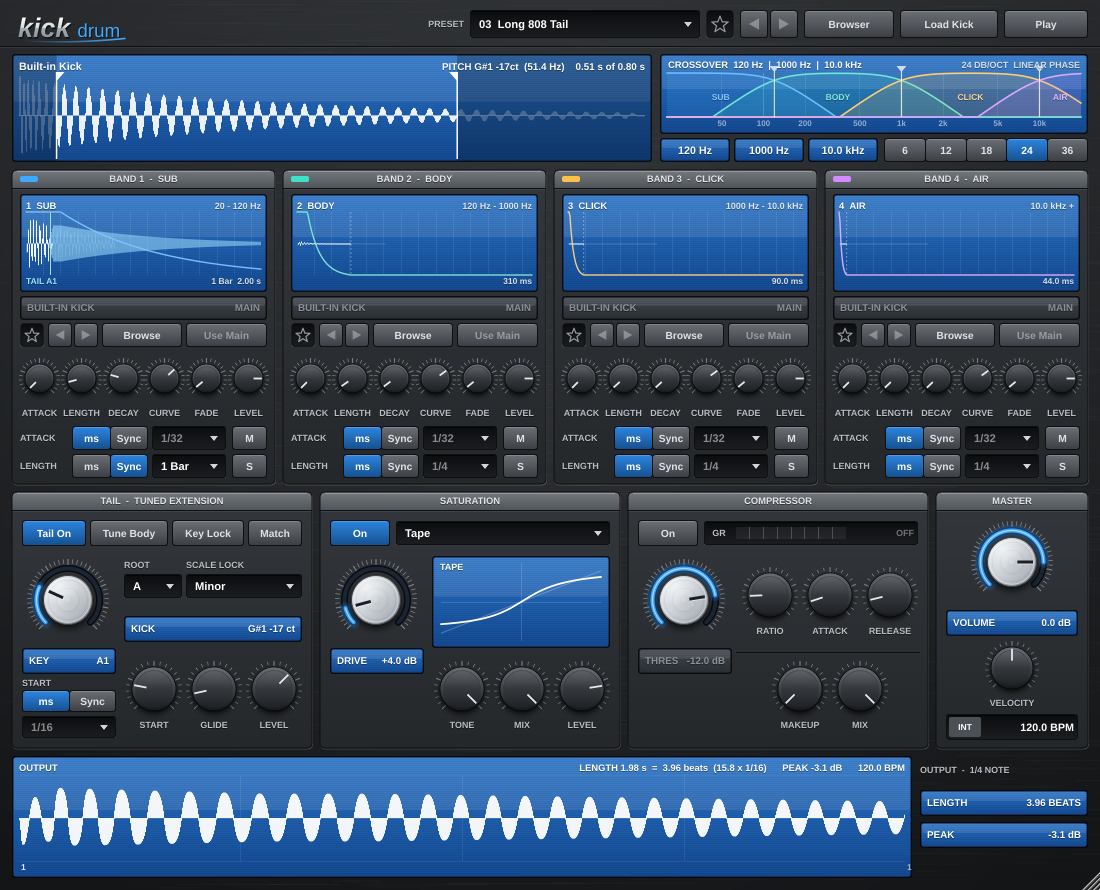
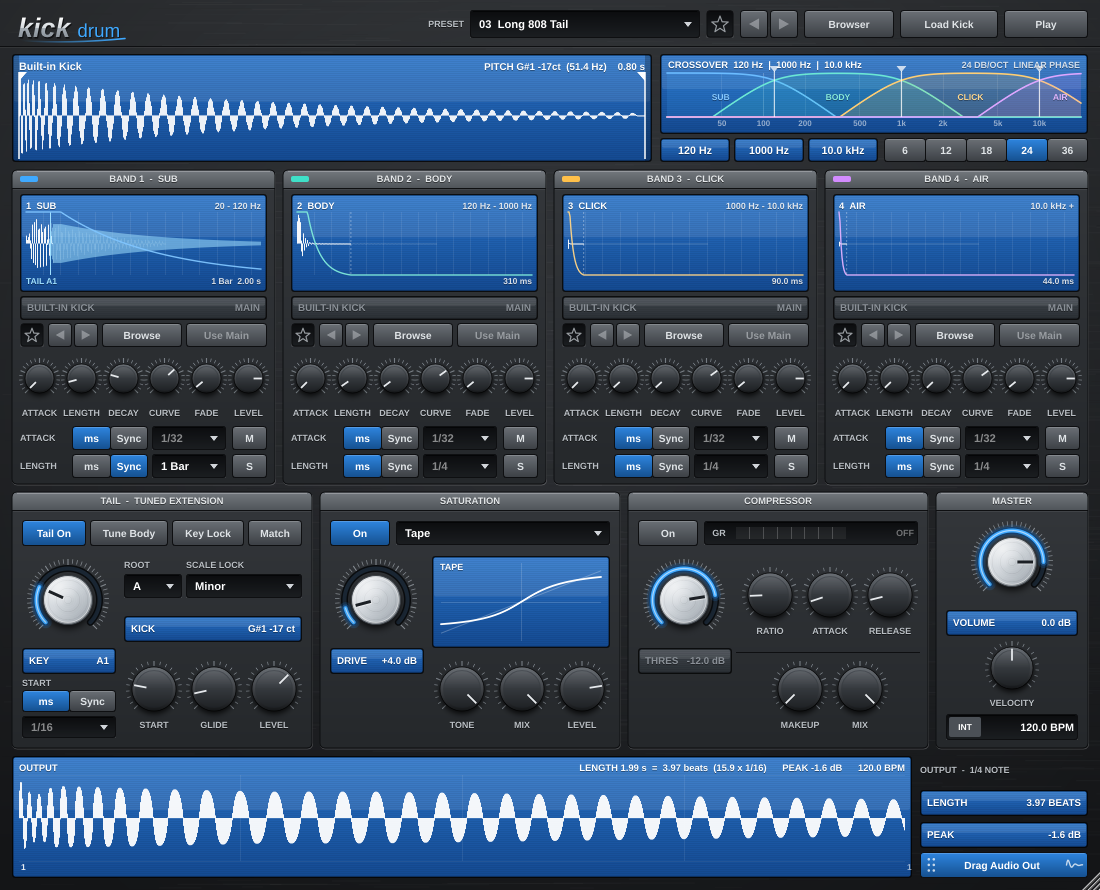
Drag Audio Out: drag the rendered kick onto a DAW track as a WAV
- Button under Length / Peak; dragging renders the current sound and
  starts an OS file drag (as ArpSampler's Drag MIDI)
- 24-bit stereo WAV at the session rate, from the hit to its -60 dBFS end
  plus a 10 ms fade; a new file per drag in Documents/KickDrum/Exports
- Right-click: Save WAV file..., Show export folder

Claude-Session: https://claude.ai/code/session_01HY2UoCTJxkdUHW1wsWDiPh

diff --git a/Source/UI/DragAudioHandle.cpp b/Source/UI/DragAudioHandle.cpp
@@ -1,0 +1,123 @@
+#include "DragAudioHandle.h"
+#include "Shared/CustomLookAndFeel.h"
+
+using namespace juce;
+
+DragAudioHandle::DragAudioHandle()
+{
+    setMouseCursor (MouseCursor::DraggingHandCursor);
+    setTooltip ("Drag onto a track in your DAW to drop the kick as audio (a WAV of one hit, exactly as the "
+                "output display shows it, starting on the beat).\nRight-click to save the WAV file instead.");
+}
+
+void DragAudioHandle::paint (Graphics& g)
+{
+    auto b = getLocalBounds().toFloat().reduced (0.5f);
+    const bool lit = hover || dragging;
+
+    g.setColour (Colours::black.withAlpha (0.5f));
+    g.fillRoundedRectangle (b.translated (0.0f, 1.0f), 3.0f);
+    g.setGradientFill (ColourGradient (lit ? Colour (0xff3a95f0) : Colour (0xff2f86e0), 0.0f, b.getY(),
+                                       lit ? Colour (0xff1d5fa6) : Colour (0xff15508f), 0.0f, b.getBottom(), false));
+    g.fillRoundedRectangle (b, 3.0f);
+    g.setColour (Colours::white.withAlpha (0.18f));
+    g.drawHorizontalLine ((int) b.getY() + 1, b.getX() + 3.0f, b.getRight() - 3.0f);
+    g.setColour (VirusColours::bevelDark);
+    g.drawRoundedRectangle (b, 3.0f, 1.0f);
+
+    // grip dots
+    auto grip = b.removeFromLeft (22.0f).reduced (7.0f, b.getHeight() * 0.22f);
+    g.setColour (Colours::white.withAlpha (0.75f));
+    for (int row = 0; row < 3; ++row)
+        for (int col = 0; col < 2; ++col)
+            g.fillEllipse (grip.getX() + col * 5.0f, grip.getY() + row * grip.getHeight() / 2.5f, 2.6f, 2.6f);
+
+    // tiny kick waveform icon
+    auto icon = b.removeFromRight (26.0f).reduced (5.0f, b.getHeight() * 0.22f);
+    Path wave;
+    const int n = 24;
+    for (int i = 0; i <= n; ++i)
+    {
+        const float x = (float) i / (float) n;
+        const float y = std::sin (x * 14.0f) * std::exp (-x * 3.5f);
+        const float px = icon.getX() + x * icon.getWidth(), py = icon.getCentreY() - y * icon.getHeight() * 0.5f;
+        if (i == 0) wave.startNewSubPath (px, py);
+        else        wave.lineTo (px, py);
+    }
+    g.strokePath (wave, PathStrokeType (1.4f, PathStrokeType::curved, PathStrokeType::rounded));
+
+    g.setFont (CustomLookAndFeel::uiFont (11.5f, true));
+    g.setColour (Colours::white);
+    g.drawText ("Drag Audio Out", b, Justification::centred);
+}
+
+void DragAudioHandle::mouseDown (const MouseEvent& e)
+{
+    if (e.mods.isPopupMenu())
+    {
+        showMenu();
+        return;
+    }
+    dragging = true;
+    dragStarted = false;
+    repaint();
+}
+
+void DragAudioHandle::mouseDrag (const MouseEvent& e)
+{
+    if (! dragging || dragStarted || e.getDistanceFromDragStart() < 4 || ! createFile)
+        return;
+
+    dragStarted = true;
+    const auto file = createFile();
+    if (file.existsAsFile())
+        DragAndDropContainer::performExternalDragDropOfFiles ({ file.getFullPathName() }, false, this,
+                                                              [safe = SafePointer<DragAudioHandle> (this)]
+                                                              {
+                                                                  if (safe != nullptr)
+                                                                  {
+                                                                      safe->dragging = false;
+                                                                      safe->repaint();
+                                                                  }
+                                                              });
+}
+
+void DragAudioHandle::mouseUp (const MouseEvent&)
+{
+    dragging = false;
+    repaint();
+}
+
+void DragAudioHandle::showMenu()
+{
+    PopupMenu menu;
+    menu.addItem ("Save WAV file...", [this]
+    {
+        if (! createFile)
+            return;
+        const auto source = createFile();
+        if (! source.existsAsFile())
+            return;
+
+        chooser = std::make_unique<FileChooser> ("Save the kick as a WAV file",
+                                                 File::getSpecialLocation (File::userDocumentsDirectory).getChildFile (source.getFileName()),
+                                                 "*.wav");
+        chooser->launchAsync (FileBrowserComponent::saveMode | FileBrowserComponent::warnAboutOverwriting,
+                              [source] (const FileChooser& fc)
+                              {
+                                  auto target = fc.getResult();
+                                  if (target != File())
+                                      source.copyFileTo (target.withFileExtension ("wav"));
+                              });
+    });
+    menu.addItem ("Show export folder", [this]
+    {
+        if (createFile)
+        {
+            const auto file = createFile();
+            if (file.existsAsFile())
+                file.revealToUser();
+        }
+    });
+    menu.showMenuAsync (PopupMenu::Options().withTargetComponent (this));
+}

diff --git a/Source/PluginEditor.cpp b/Source/PluginEditor.cpp
@@ -158,6 +158,8 @@ KickDrumAudioProcessorEditor::Content::Content (KickDrumAudioProcessor& p)
     addAndMakeVisible (outputView);
     addAndMakeVisible (outLengthLcd);
     addAndMakeVisible (outPeakLcd);
+    dragAudio.createFile = [this] { return exportAudio(); };
+    addAndMakeVisible (dragAudio);
     outLengthLcd.setTooltip ("How long the hit lasts (until it stays below -60 dBFS), in beats at the current tempo");
     outPeakLcd.setTooltip ("Peak level of one full-velocity hit");
     renderer.onRendered = [this] (std::shared_ptr<const RenderedHit> hit)
@@ -567,6 +569,11 @@ void KickDrumAudioProcessorEditor::Content::requestRenderIfNeeded (const KickBan
         return;
     lastRenderKey = key;
 
+    renderer.request (makeRenderRequest (info));
+}
+
+OutputRenderer::Request KickDrumAudioProcessorEditor::Content::makeRenderRequest (const KickBank::DisplayInfo& info) const
+{
     OutputRenderer::Request r;
     r.set = info.set;
     r.engine = processor.makeEngineSettings();
@@ -580,7 +587,25 @@ void KickDrumAudioProcessorEditor::Content::requestRenderIfNeeded (const KickBan
     for (auto& b : r.engine.bands)
         longest = jmax (longest, b.length());
     r.seconds = jlimit (kOutputViewBeats * beatSeconds, 8.0, longest + 0.2);
-    renderer.request (r);
+    return r;
+}
+
+File KickDrumAudioProcessorEditor::Content::exportAudio()
+{
+    const auto info = bank.getDisplayInfo();
+    if (info.set == nullptr)
+        return {};
+
+    // render now, so the file is exactly the current sound
+    const auto hit = OutputRenderer::render (makeRenderRequest (info));
+
+    const auto name = File::createLegalFileName (info.global.name.isEmpty() ? String ("Kick") : info.global.name);
+    const auto stamp = Time::getCurrentTime().formatted ("%Y%m%d-%H%M%S");
+    const auto folder = File::getSpecialLocation (File::userDocumentsDirectory).getChildFile ("KickDrum").getChildFile ("Exports");
+    // a new file every time: the DAW may keep referring to files it was given earlier
+    const auto file = folder.getNonexistentChildFile ("KickDrum " + name + " " + noteName (processor.getTailNote())
+                                                          + " " + String (roundToInt (processor.getTempo())) + "BPM " + stamp, ".wav", false);
+    return OutputRenderer::writeWav (*hit, file) ? file : File();
 }
 
 //==============================================================================
@@ -606,6 +631,7 @@ void KickDrumAudioProcessorEditor::Content::resized()
     outputView.setBounds (12, 756, 900, 122);
     outLengthLcd.setBounds (920, 790, 168, 26);
     outPeakLcd.setBounds (920, 822, 168, 26);
+    dragAudio.setBounds (920, 852, 168, 26);
 
     // Bands
     for (int b = 0; b < kNumBands; ++b)

diff --git a/Tests/DspTests.cpp b/Tests/DspTests.cpp
@@ -775,6 +775,47 @@ public:
             MessageManager::getInstance()->runDispatchLoopUntil (50);
         }
 
+        beginTest ("Drag Audio Out: the WAV is the rendered hit, from the beat to its end");
+        {
+            KickDrumAudioProcessor p;
+            p.getBank().waitUntilIdle (5000);
+            MessageManager::getInstance()->runDispatchLoopUntil (100);
+            const auto info = p.getBank().getDisplayInfo();
+            OutputRenderer::Request r;
+            r.set = info.set;
+            r.engine = p.makeEngineSettings();
+            r.saturation = p.makeSaturationSettings();
+            r.compressor = p.makeCompressorSettings();
+            r.volume = p.getVolumeGain();
+            r.sampleRate = 48000.0;
+            r.seconds = 2.0;
+            const auto hit = OutputRenderer::render (r);
+
+            TemporaryFile temp (".wav");
+            expect (OutputRenderer::writeWav (*hit, temp.getFile()));
+
+            AudioFormatManager fm;
+            fm.registerBasicFormats();
+            std::unique_ptr<AudioFormatReader> reader (fm.createReaderFor (temp.getFile()));
+            expect (reader != nullptr);
+            if (reader != nullptr)
+            {
+                expectEquals ((int) reader->numChannels, 2);
+                expectEquals (reader->sampleRate, 48000.0);
+                const int expectedLength = (int) (hit->endSeconds * 48000.0) + 480;
+                expectEquals ((int) reader->lengthInSamples, expectedLength);
+
+                AudioBuffer<float> back (2, (int) reader->lengthInSamples);
+                reader->read (&back, 0, back.getNumSamples(), 0, true, true);
+                // same audio as the render (24-bit), starting at the hit
+                float diff = 0.0f;
+                for (int i = 0; i < back.getNumSamples() - 480; ++i)
+                    diff = jmax (diff, std::abs (back.getSample (0, i) - hit->audio.getSample (0, i)));
+                expectLessThan (diff, 1.0e-4f);
+                expectLessThan (std::abs (back.getSample (0, back.getNumSamples() - 1)), 1.0e-4f);
+            }
+        }
+
         beginTest ("Every factory preset loads");
         {
             KickDrumAudioProcessor p;

diff --git a/Source/DSP/OutputRenderer.cpp b/Source/DSP/OutputRenderer.cpp
@@ -1,4 +1,5 @@
 #include "OutputRenderer.h"
+#include <juce_audio_formats/juce_audio_formats.h>
 
 using namespace juce;
 
@@ -74,6 +75,35 @@ namespace kd
         }
         hit->endSeconds = last / r.sampleRate;
         return hit;
+    }
+
+    bool OutputRenderer::writeWav (const RenderedHit& hit, const File& file)
+    {
+        const int total = hit.audio.getNumSamples();
+        const int fade = (int) (hit.sampleRate * 0.01);
+        const int length = jlimit (1, total, (int) (hit.endSeconds * hit.sampleRate) + fade);
+
+        AudioBuffer<float> out (2, length);
+        for (int ch = 0; ch < 2; ++ch)
+        {
+            out.copyFrom (ch, 0, hit.audio, jmin (ch, hit.audio.getNumChannels() - 1), 0, length);
+            const int f = jmin (fade, length);
+            for (int i = 0; i < f; ++i)   // raised-cosine fade to exactly 0
+                out.setSample (ch, length - f + i,
+                               out.getSample (ch, length - f + i) * (0.5f + 0.5f * std::cos (MathConstants<float>::pi * (float) (i + 1) / (float) f)));
+        }
+
+        file.getParentDirectory().createDirectory();
+        file.deleteFile();
+        std::unique_ptr<OutputStream> stream = file.createOutputStream();
+        if (stream == nullptr)
+            return false;
+
+        WavAudioFormat wav;
+        auto writer = wav.createWriterFor (stream, AudioFormatWriterOptions().withSampleRate (hit.sampleRate)
+                                                                           .withNumChannels (2)
+                                                                           .withBitsPerSample (24));
+        return writer != nullptr && writer->writeFromAudioSampleBuffer (out, 0, length);
     }
 
     void OutputRenderer::run()

diff --git a/Source/UI/DragAudioHandle.h b/Source/UI/DragAudioHandle.h
@@ -1,0 +1,32 @@
+#pragma once
+
+#include <juce_gui_basics/juce_gui_basics.h>
+
+//==============================================================================
+/**
+    "Drag Audio Out" grip. Dragging it writes the rendered hit to a WAV file and starts
+    an external (OS-level) file drag, so it can be dropped on a DAW track (as ArpSampler's
+    Drag MIDI). Right-click offers "Save WAV file..." for hosts that don't accept drags.
+*/
+class DragAudioHandle : public juce::Component,
+                        public juce::SettableTooltipClient
+{
+public:
+    DragAudioHandle();
+
+    /** Writes the audio and returns the file (empty on failure). */
+    std::function<juce::File()> createFile;
+
+    void paint (juce::Graphics&) override;
+    void mouseEnter (const juce::MouseEvent&) override   { hover = true; repaint(); }
+    void mouseExit (const juce::MouseEvent&) override    { hover = false; repaint(); }
+    void mouseDown (const juce::MouseEvent&) override;
+    void mouseDrag (const juce::MouseEvent&) override;
+    void mouseUp (const juce::MouseEvent&) override;
+
+private:
+    void showMenu();
+
+    bool hover = false, dragging = false, dragStarted = false;
+    std::unique_ptr<juce::FileChooser> chooser;
+};

diff --git a/Source/PluginEditor.h b/Source/PluginEditor.h
@@ -7,6 +7,7 @@
 #include "UI/BrowserPanel.h"
 #include "UI/Controls.h"
 #include "UI/KickDisplays.h"
+#include "UI/DragAudioHandle.h"
 
 //==============================================================================
 /**
@@ -93,6 +94,9 @@ private:
         kd::OutputRenderer renderer;
         juce::int64 lastRenderKey = 0;
         void requestRenderIfNeeded (const kd::KickBank::DisplayInfo&);
+        kd::OutputRenderer::Request makeRenderRequest (const kd::KickBank::DisplayInfo&) const;
+        juce::File exportAudio();      // renders the current kick to a WAV for Drag Audio Out
+        DragAudioHandle dragAudio;
 
         // Bands
         std::array<std::unique_ptr<BandControls>, kd::kNumBands> bands;

diff --git a/Source/DSP/OutputRenderer.h b/Source/DSP/OutputRenderer.h
@@ -42,8 +42,12 @@ namespace kd
         /** Called on the message thread with each finished render. */
         std::function<void (std::shared_ptr<const RenderedHit>)> onRendered;
 
-        /** Synchronous render (used by the thread, and by tests). */
+        /** Synchronous render (used by the thread, the audio export, and tests). */
         static std::shared_ptr<RenderedHit> render (const Request&);
+
+        /** Writes a hit as a 24-bit WAV: from the hit (time 0) to where it ends (-60 dBFS),
+            plus a 10 ms fade so the file never ends with a click. Returns false on failure. */
+        static bool writeWav (const RenderedHit&, const juce::File&);
 
     private:
         void run() override;

diff --git a/README.md b/README.md
@@ -70,6 +70,14 @@ in the background and updates as you edit, so you don't need to play a note. The
 whole hit's length (until it stays below -60 dBFS) in beats, even when it lasts longer than the view,
 and its peak level. The waveform is drawn at the screen's full resolution. Click it to play the kick.
 
+**Drag Audio Out** (under Length and Peak): drag it onto a track in your DAW (e.g. Cubase) to drop the
+kick as audio. It writes one full-velocity hit, exactly as the output display renders it (bands,
+tail, FX, volume), as a 24-bit stereo WAV at the session's sample rate. The file starts on the hit
+(no latency offset, so it lands on the grid where you drop it) and runs to where the hit ends
+(-60 dBFS) plus a 10 ms fade. Each drag writes a new file to `Documents\KickDrum\Exports`, so earlier
+exports used in a project are never overwritten. Right-click it to save the WAV somewhere else or open
+the export folder. The export uses the Key knob's key (Key Lock follows MIDI notes only when playing).
+
 ## Tail (tuned extension)
 
 * The Sub band's pitch is detected when a kick loads (shown as KICK, and on the main display).
